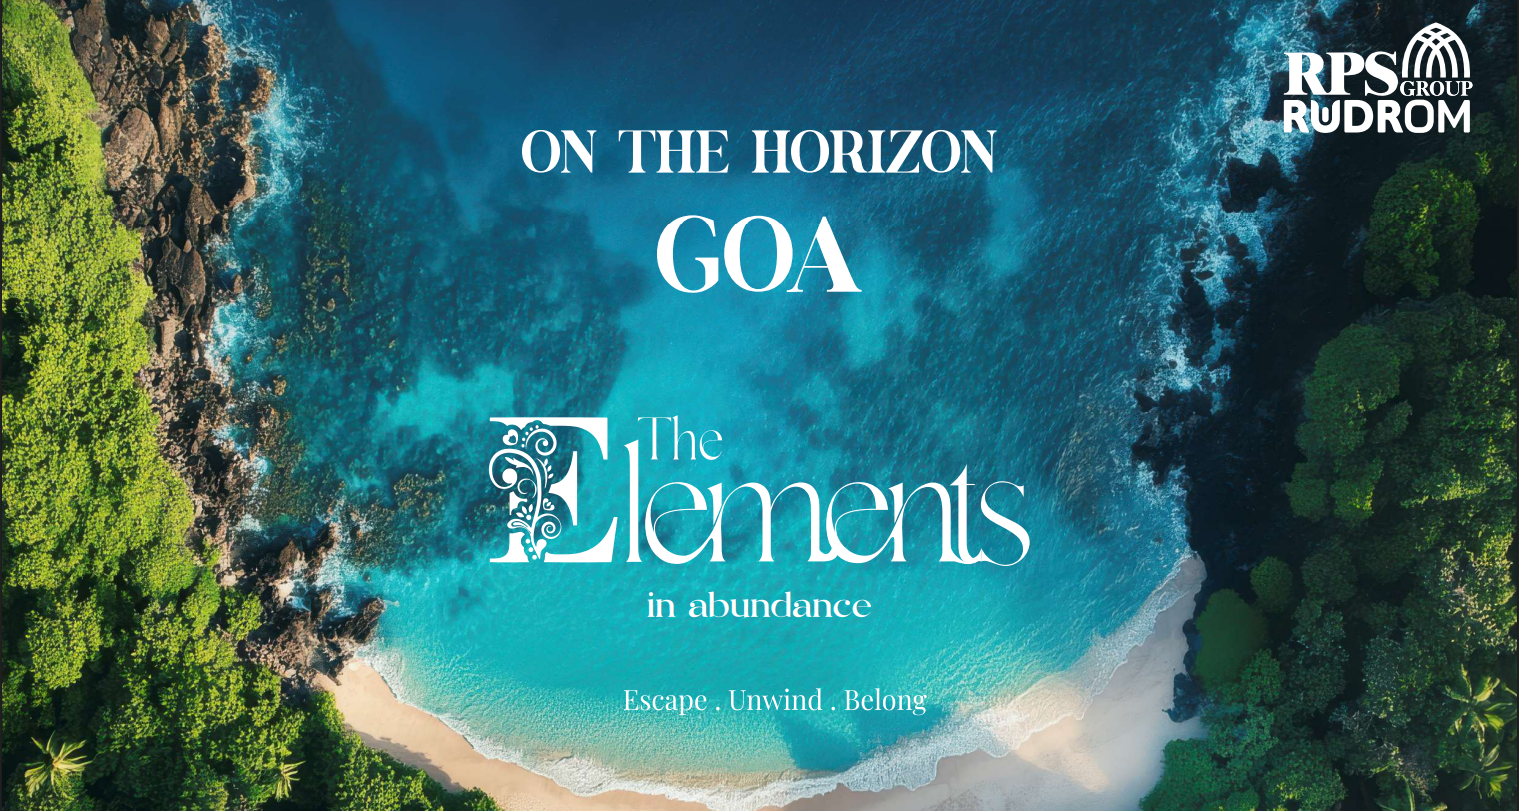
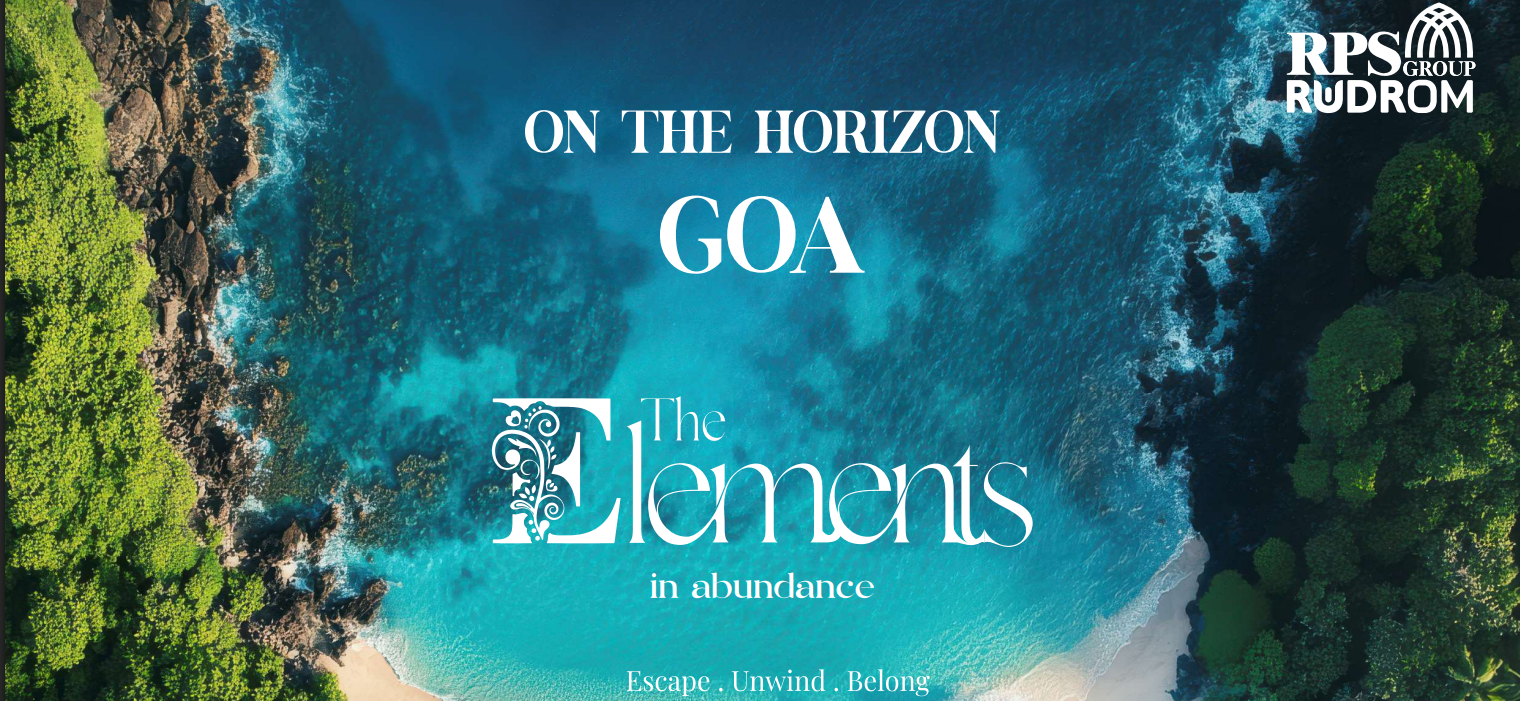
add changes

diff --git a/src/pages/OffPlanDetails.tsx b/src/pages/OffPlanDetails.tsx
@@ -118,11 +118,11 @@ const OffPlansDetails: React.FC = () => {
       <div className="w-full ">
         <Slider {...settings}>
           {bannerImages.map((src, index) => (
-            <div key={index} className="px-2">
+            <div key={index} className="px-2 py-7">
               <img
                 src={src}
                 alt={`Image ${index}`}
-                className="rounded-lg object-center md:h-[100vh] h-[40vh]  w-full shadow-md"
+                className="rounded-lg md:object-full object-full md:h-[100vh] h-[40vh]  w-full shadow-md"
               />
             </div>
           ))}

diff --git a/src/pages/RentDetails.tsx b/src/pages/RentDetails.tsx
@@ -118,11 +118,11 @@ const RentDetails: React.FC = () => {
       <div className="w-full ">
         <Slider {...settings}>
           {bannerImages.map((src, index) => (
-            <div key={index} className="px-2">
+            <div key={index} className="px-2 py-7">
               <img
                 src={src}
                 alt={`Image ${index}`}
-                className="rounded-lg object-center md:h-[100vh] h-[40vh]  w-full shadow-md"
+                className="rounded-lg md:object-full object-full md:h-[100vh] h-[40vh]  w-full shadow-md"
               />
             </div>
           ))}

diff --git a/src/pages/BuyDetails.tsx b/src/pages/BuyDetails.tsx
@@ -118,11 +118,11 @@ const BuyDetails: React.FC = () => {
       <div className="w-full ">
         <Slider {...settings}>
           {bannerImages.map((src, index) => (
-            <div key={index} className="px-2">
+            <div key={index} className="px-2 py-7">
               <img
                 src={src}
                 alt={`Image ${index}`}
-                className="rounded-lg object-center md:h-[100vh] h-[40vh]  w-full shadow-md"
+                className="rounded-lg md:object-full object-full md:h-[100vh] h-[40vh]  w-full shadow-md"
               />
             </div>
           ))}

diff --git a/src/pages/Rent.tsx b/src/pages/Rent.tsx
@@ -45,7 +45,7 @@ export const RentProjects: React.FC = () => {
                     <img
                       src={bannerImages[1]}
                       alt={name}
-                      className="w-full h-full object-cover transition-transform duration-500 group-hover:scale-105"
+                      className="w-full h-full object-full transition-transform duration-500 group-hover:scale-105"
                     />
                   </div>
 

diff --git a/src/pages/Buy.tsx b/src/pages/Buy.tsx
@@ -44,7 +44,7 @@ export const BuyProjects: React.FC = () => {
                     <img
                       src={bannerImages[1]}
                       alt={name}
-                      className="w-full h-full object-cover transition-transform duration-500 group-hover:scale-105"
+                      className="w-full h-full object-full transition-transform duration-500 group-hover:scale-105"
                     />
                   </div>
 

diff --git a/src/pages/OffPlan.tsx b/src/pages/OffPlan.tsx
@@ -44,7 +44,7 @@ export const OffPlan: React.FC = () => {
                     <img
                       src={bannerImages[1]}
                       alt={name}
-                      className="w-full h-full object-cover transition-transform duration-500 group-hover:scale-105"
+                      className="w-full h-full object-full transition-transform duration-500 group-hover:scale-105"
                     />
                   </div>
 
